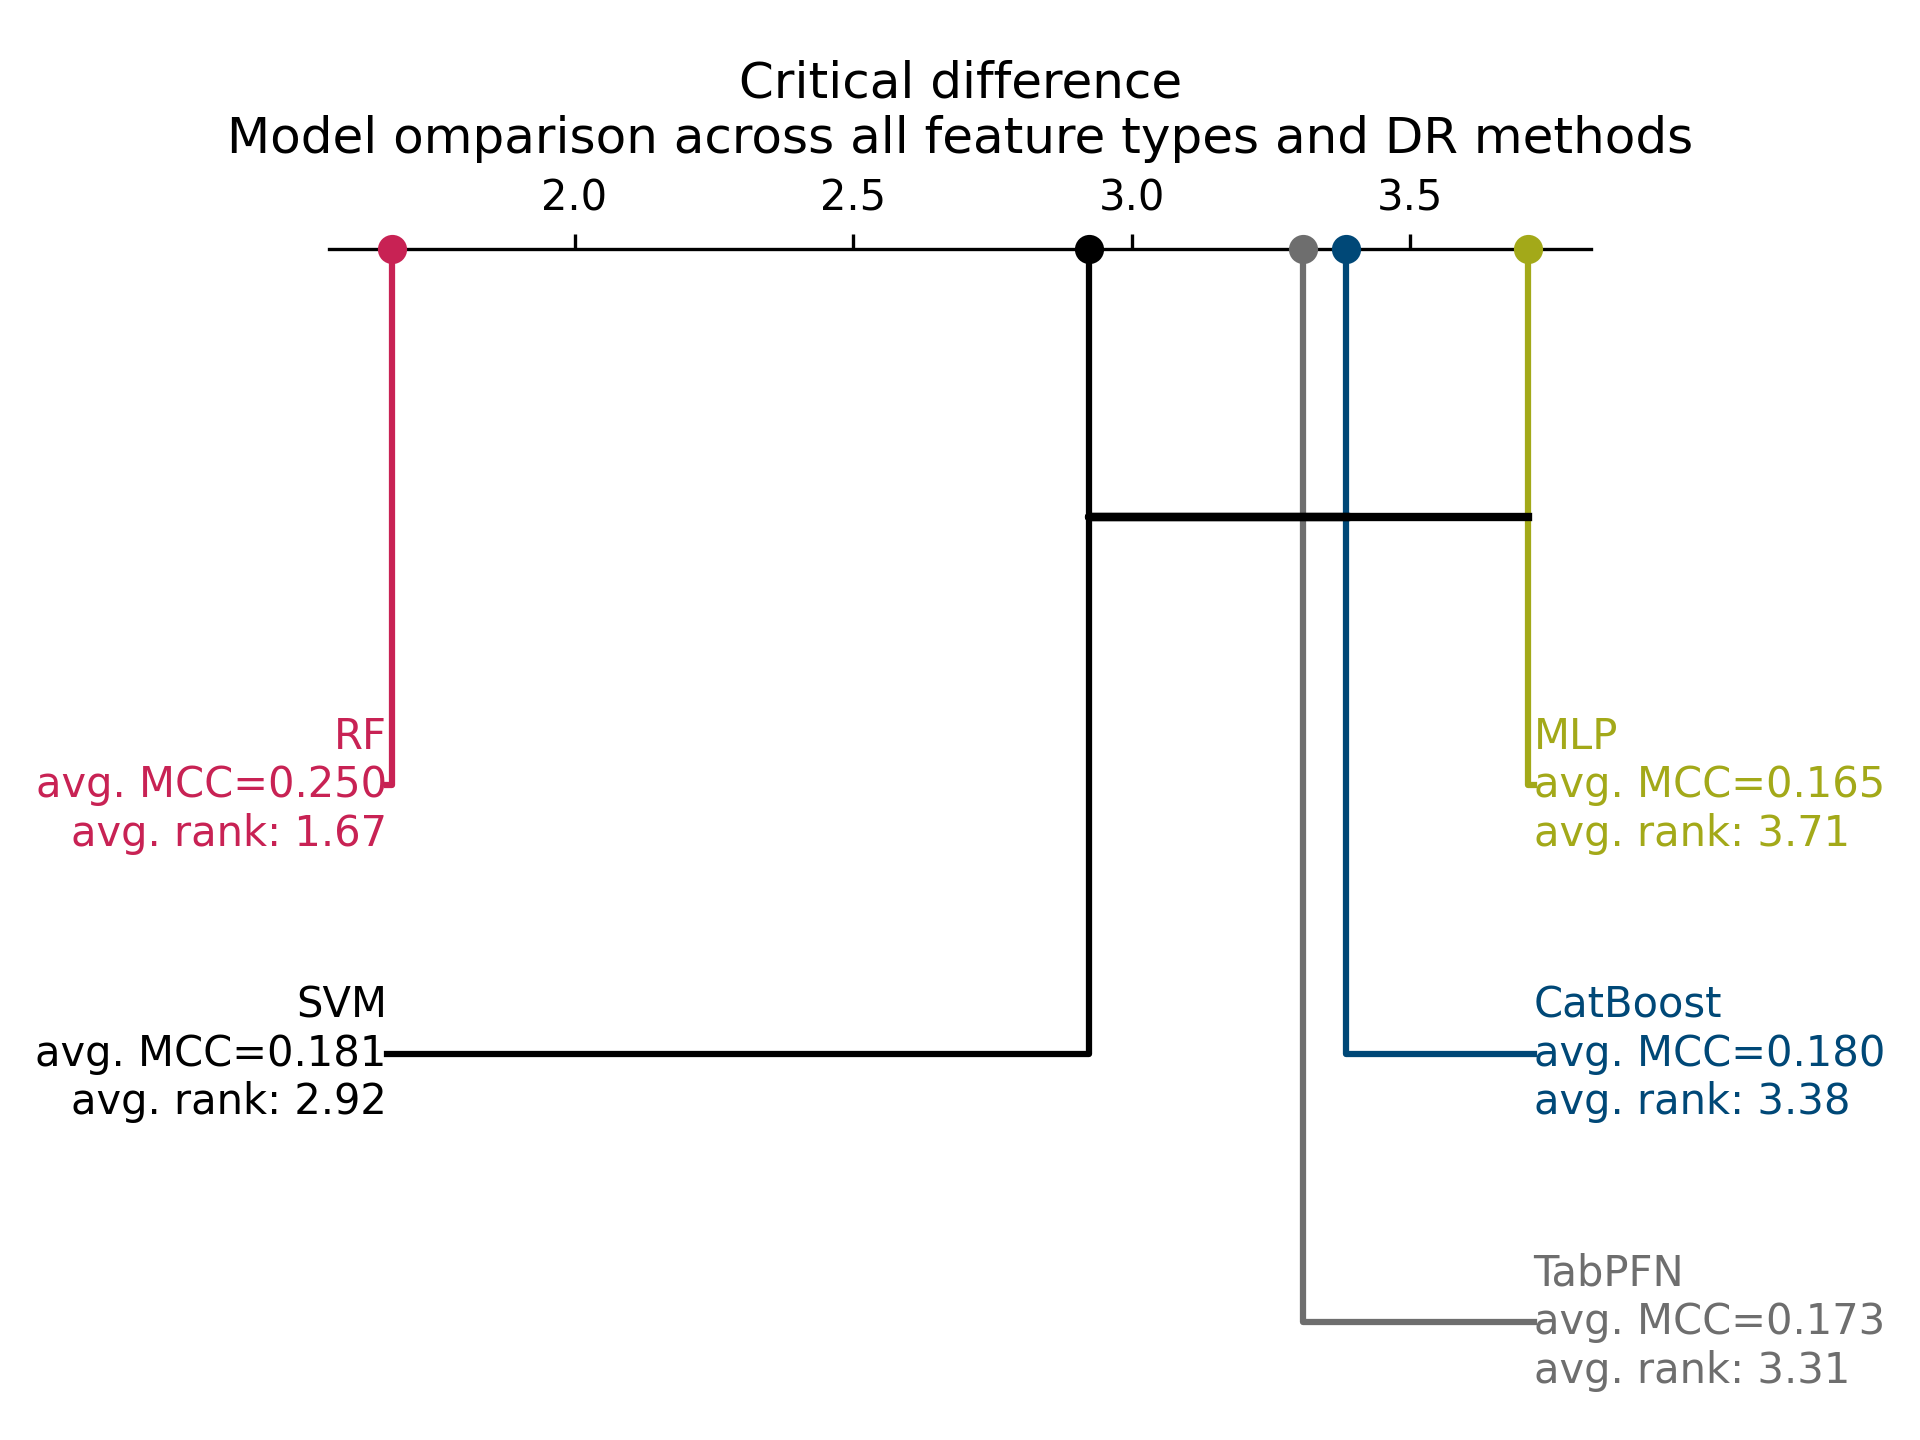
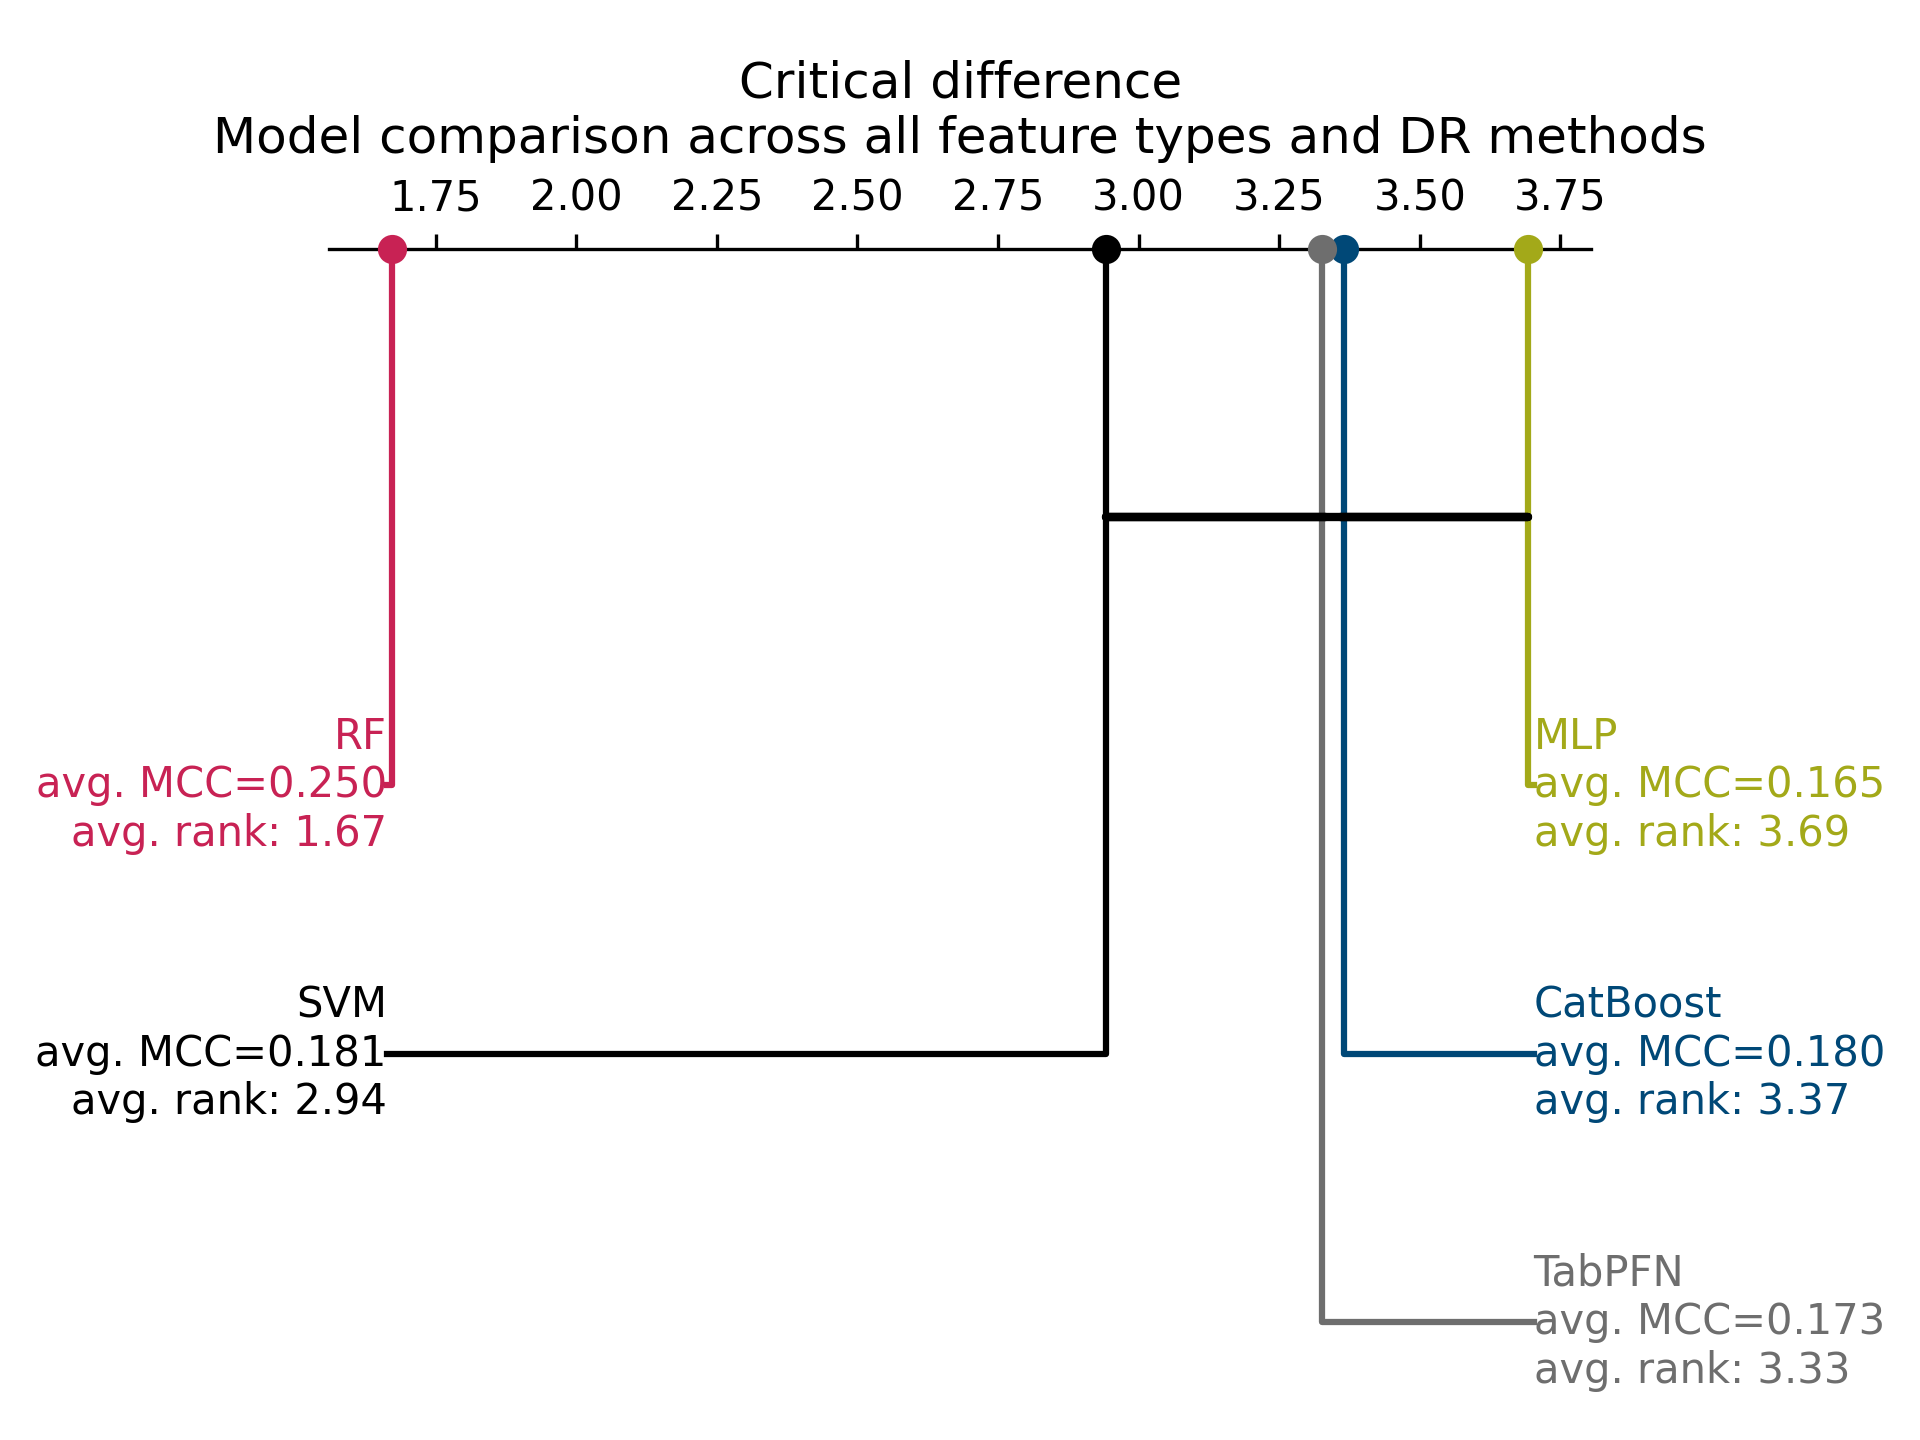
added evaluation for compound representations

diff --git a/evaluation/generate_representation_comparison_across_and_per_model.py b/evaluation/generate_representation_comparison_across_and_per_model.py
@@ -9,11 +9,10 @@ from matplotlib.colors import LinearSegmentedColormap, TwoSlopeNorm
 import argparse
 
 custom_palette = {
-    "rf": "#c82254",
-    "mlp": "#a3a919",
-    "cat_boost": "#004877",
-    "svm": "#000000",
-    "tabpfn": "#6e6e6e"
+    "physchem": "#c82254",
+    "embeddings": "#a3a919",
+    "maccs": "#004877",
+    "morgan": "#000000",
 }
 
 
@@ -27,14 +26,14 @@ def inverse_fisher_z(z):
 
 
 
-def cd_plot_for_nemenyi(final_results, model_name_map, output_dir):
+def cd_plot_for_nemenyi(final_results, feature_name_map, output_dir):
     final_results['mcc_z'] = fisher_z(final_results['mcc'])
     means = (
-        final_results.groupby(['assay', 'model'], as_index=False)['mcc_z']
+        final_results.groupby(['assay', 'feature_type'], as_index=False)['mcc_z']
         .mean()
     )
     means['mcc'] = means['mcc_z'].apply(inverse_fisher_z)
-    wide = means.pivot(index='assay', columns='model', values='mcc')
+    wide = means.pivot(index='assay', columns='feature_type', values='mcc')
 
     # Rank per assay (rank 1 = best; higher mcc_z is better)
 
@@ -43,12 +42,12 @@ def cd_plot_for_nemenyi(final_results, model_name_map, output_dir):
     # Average ranks 
     
     avg_ranks = ranks.mean(axis=0)
-    models = [model_name_map[m] for m in avg_ranks.index]
-    wide = means.pivot(index='assay', columns='model', values='mcc_z')
+    models = [feature_name_map[m] for m in avg_ranks.index]
+    wide = means.pivot(index='assay', columns='feature_type', values='mcc_z')
     avg_mcc = wide.mean(axis=0)
     avg_mcc = avg_mcc.apply(inverse_fisher_z)
 
-    pretty_names = {m: f"{model_name_map [m]}\navg. MCC={avg_mcc[m]:.3f}" for m in avg_ranks.index}
+    pretty_names = {m: f"{feature_name_map [m]}\navg. MCC={avg_mcc[m]:.3f}" for m in avg_ranks.index}
     avg_ranks.index = [pretty_names[m] for m in avg_ranks.index]
 
 
@@ -89,9 +88,9 @@ def cd_plot_for_nemenyi(final_results, model_name_map, output_dir):
     )
     
 
-    plt.title(f"Model comparison across all feature types and DR methods")
+    plt.title(f"Compound representation comparison across assays, models, and DR methods")
     plt.tight_layout()
-    plt.savefig(f'{output_dir}/nemenyi_pval_heatmap_models_across_everything.png', dpi = 300, transparent = False)
+    plt.savefig(f'{output_dir}/nemenyi_pval_heatmap_comparing_feature_types.png', dpi = 300, transparent = False)
 
     pvals.index = avg_ranks.index
     pvals.columns = avg_ranks.index
@@ -109,22 +108,22 @@ def cd_plot_for_nemenyi(final_results, model_name_map, output_dir):
         label_fmt_right="{label}\navg. rank: {rank:.2f}",
         color_palette=color_palette
     )
-    plt.title(f"Critical difference\nModel comparison across all feature types and DR methods")
+    plt.title(f"Critical difference\nrepresentation comparison across assays, models, and DR methods")
     plt.tight_layout()
-    plt.savefig(f'{output_dir}/critical_difference_plot_nemenyi_comparing_models.png', dpi = 300, transparent = False)
+    plt.savefig(f'{output_dir}/critical_difference_plot_nemenyi_comparing_representations.png', dpi = 300, transparent = False)
     
 
 
 def pairwise_friedman_nemenyi(data):
     # Pivot the data to have one column per model and one row per subject
-    pivoted = data.pivot(index='fold', columns='model', values='mcc')
+    pivoted = data.pivot(index='fold', columns='dr_method', values='mcc')
     # Drop rows with missing values (if any)
     pivoted = pivoted.dropna()
 
     # Run Friedman test with correction by Iman and Davenport (1980)
     friedman_stat, p = friedmanchisquare(*pivoted.values.T)
     N = len(np.unique(data['fold']))
-    k = len(np.unique(data['model']))
+    k = len(np.unique(data['dr_method']))
     iman_davenport_correction = ((N - 1) * friedman_stat) / (N * (k - 1) - friedman_stat)
 
     # Compute p-value from F distribution
@@ -155,9 +154,9 @@ def pairwise_friedman_nemenyi(data):
 
 def parse_args():
     parser = argparse.ArgumentParser(description="Evaluation of 5 fold CV results comparing DR methods across all assays with one feature-DR combination")
-    parser.add_argument("-d", '--directory', help="input_directory", default='/home/lisa-marie-rolli/ToxCastBenchmark/model_outputs/')
+    parser.add_argument("-d", '--directory', help="input_directory", default='/home/lisa-marie-rolli/ToxCastBenchmark/model_outputs/') 
     parser.add_argument("--output_dir", '-o', help="Output_directory", default='/home/lisa-marie-rolli/ToxCastBenchmark/plotting_results/')
-    parser.add_argument("--tabpfn_missing", help="is TabPFN missing", default=False, type=bool)
+    parser.add_argument("--tabpfn_missing", help="is TabPFN missing", default=True, type=bool)
     return parser.parse_args()
 
 
@@ -165,10 +164,11 @@ def parse_args():
 def main(args):
 
     final_results = None
+    
     out_dir = args.output_dir
     num_models = 5 if (not bool(args.tabpfn_missing)) else 4
-    for dr_method in ['MI', 'mrmr', 'pca', 'variance', 'none']:
-        for feature_type in ['morgan', 'maccs', 'physchem']:
+    for feature_type in ['physchem', 'morgan', 'maccs', 'embeddings']:
+        for dr_method in ['MI', 'mrmr', 'pca', 'variance']:
             for subfolder in ['androgens', 'estrogens', 'glucocorticoids', 'progestagens', 'steroidal']:
                 directory = f'{args.directory}/{subfolder}/'
 
@@ -186,8 +186,8 @@ def main(args):
                             new_df = pd.read_csv(
                                 f'{directory}/{content}/fold{fold}/final_models_{feature_type}_{dr_method}.txt', sep='\t', skiprows=1, names=['model', 'fold', 'mcc', 'auroc'])
 
-                            new_df['dr_method'] = [
-                                f'{dr_method}' for _ in range(len(new_df.index))]
+                            new_df['feature_type'] = [
+                                f'{feature_type}' for _ in range(len(new_df.index))]
                             
                         except:
                             assay_done = False
@@ -217,7 +217,12 @@ def main(args):
                             final_results.reset_index(inplace=True, drop=True)
                     
                 
-
+    feature_name_map = {
+        'physchem': 'physicochemical properties',
+        'morgan': 'Morgan fingerprints',
+        'maccs': 'MACCS fingerprints',
+        'embeddings': 'Embeddings'
+    }
 
     model_name_map = {
         "rf": "RF",
@@ -226,9 +231,15 @@ def main(args):
         "cat_boost": "CatBoost",
         "tabpfn": "TabPFN"
     }
+    dr_name_map = {
+        "pca": "PCA",
+        "mrmr": "MRMR",
+        "variance": "Highest variance",
+        "MI": "Mutual Information",
+        "none": "No DR"
+    }
 
-
-    cd_plot_for_nemenyi(final_results, model_name_map, output_dir=out_dir)
+    cd_plot_for_nemenyi(final_results, feature_name_map, output_dir=out_dir)
 
 
 
